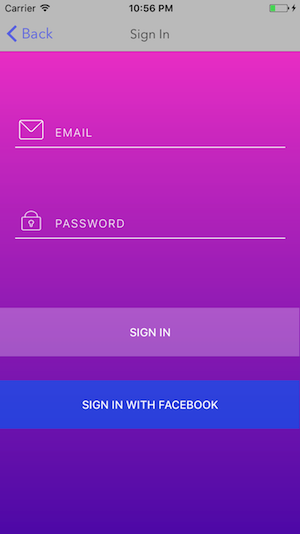
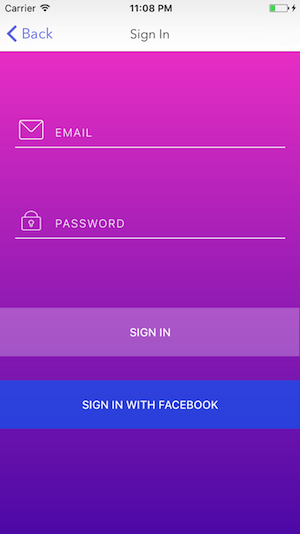
various ui changes

Changed region(s): [[0.0, 0.0, 1.0, 0.1199]]

diff --git a/PodCatcher/PodCatcher/UI/Screens/Login/Controllers/LoginViewController.swift b/PodCatcher/PodCatcher/UI/Screens/Login/Controllers/LoginViewController.swift
@@ -23,8 +23,10 @@ class LoginViewController: BaseViewController {
         title = "Sign In"
         view.autoresizingMask = [.flexibleBottomMargin, .flexibleHeight, .flexibleRightMargin, .flexibleWidth, .flexibleLeftMargin, .flexibleTopMargin]
         hideKeyboardWhenTappedAround()
+        navigationController?.navigationBar.barTintColor = .white
         navigationController?.navigationBar.isHidden = false
-        navigationController?.navigationBar.isTranslucent = true
+        navigationController?.navigationBar.backgroundColor = .white
+       // navigationController?.navigationBar.isTranslucent = true
     }
     
     override func viewWillDisappear(_ animated: Bool) {
